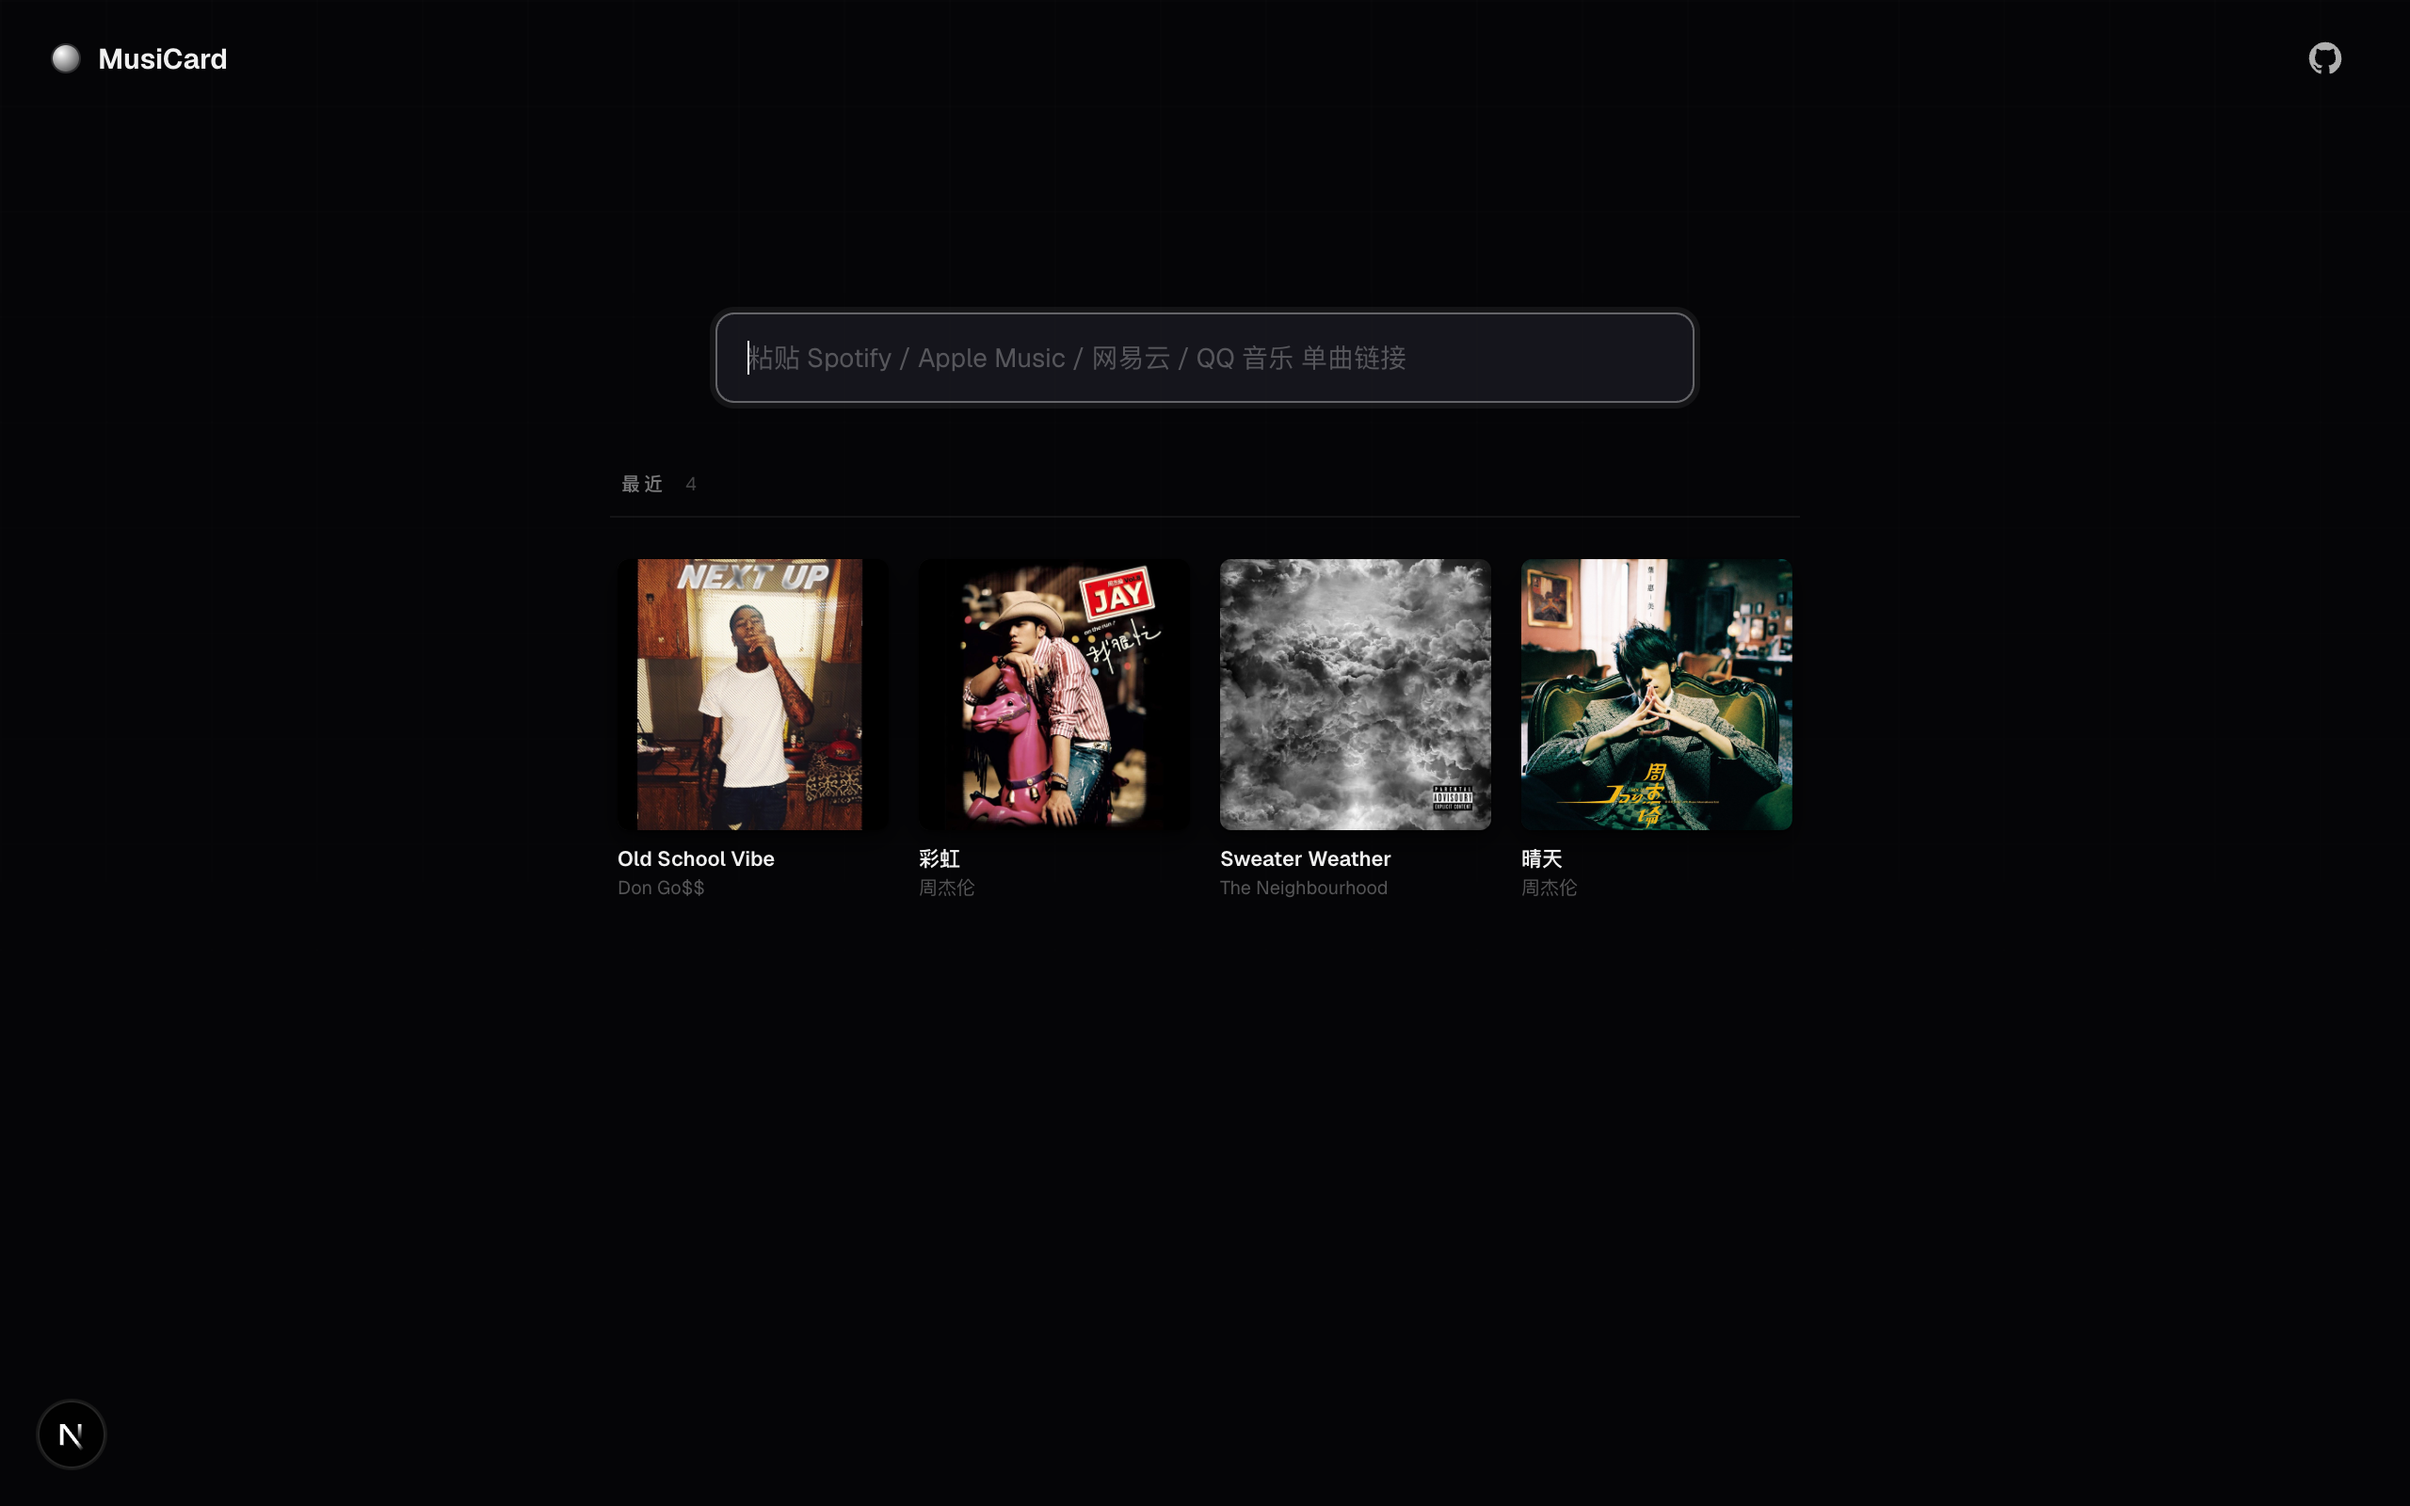
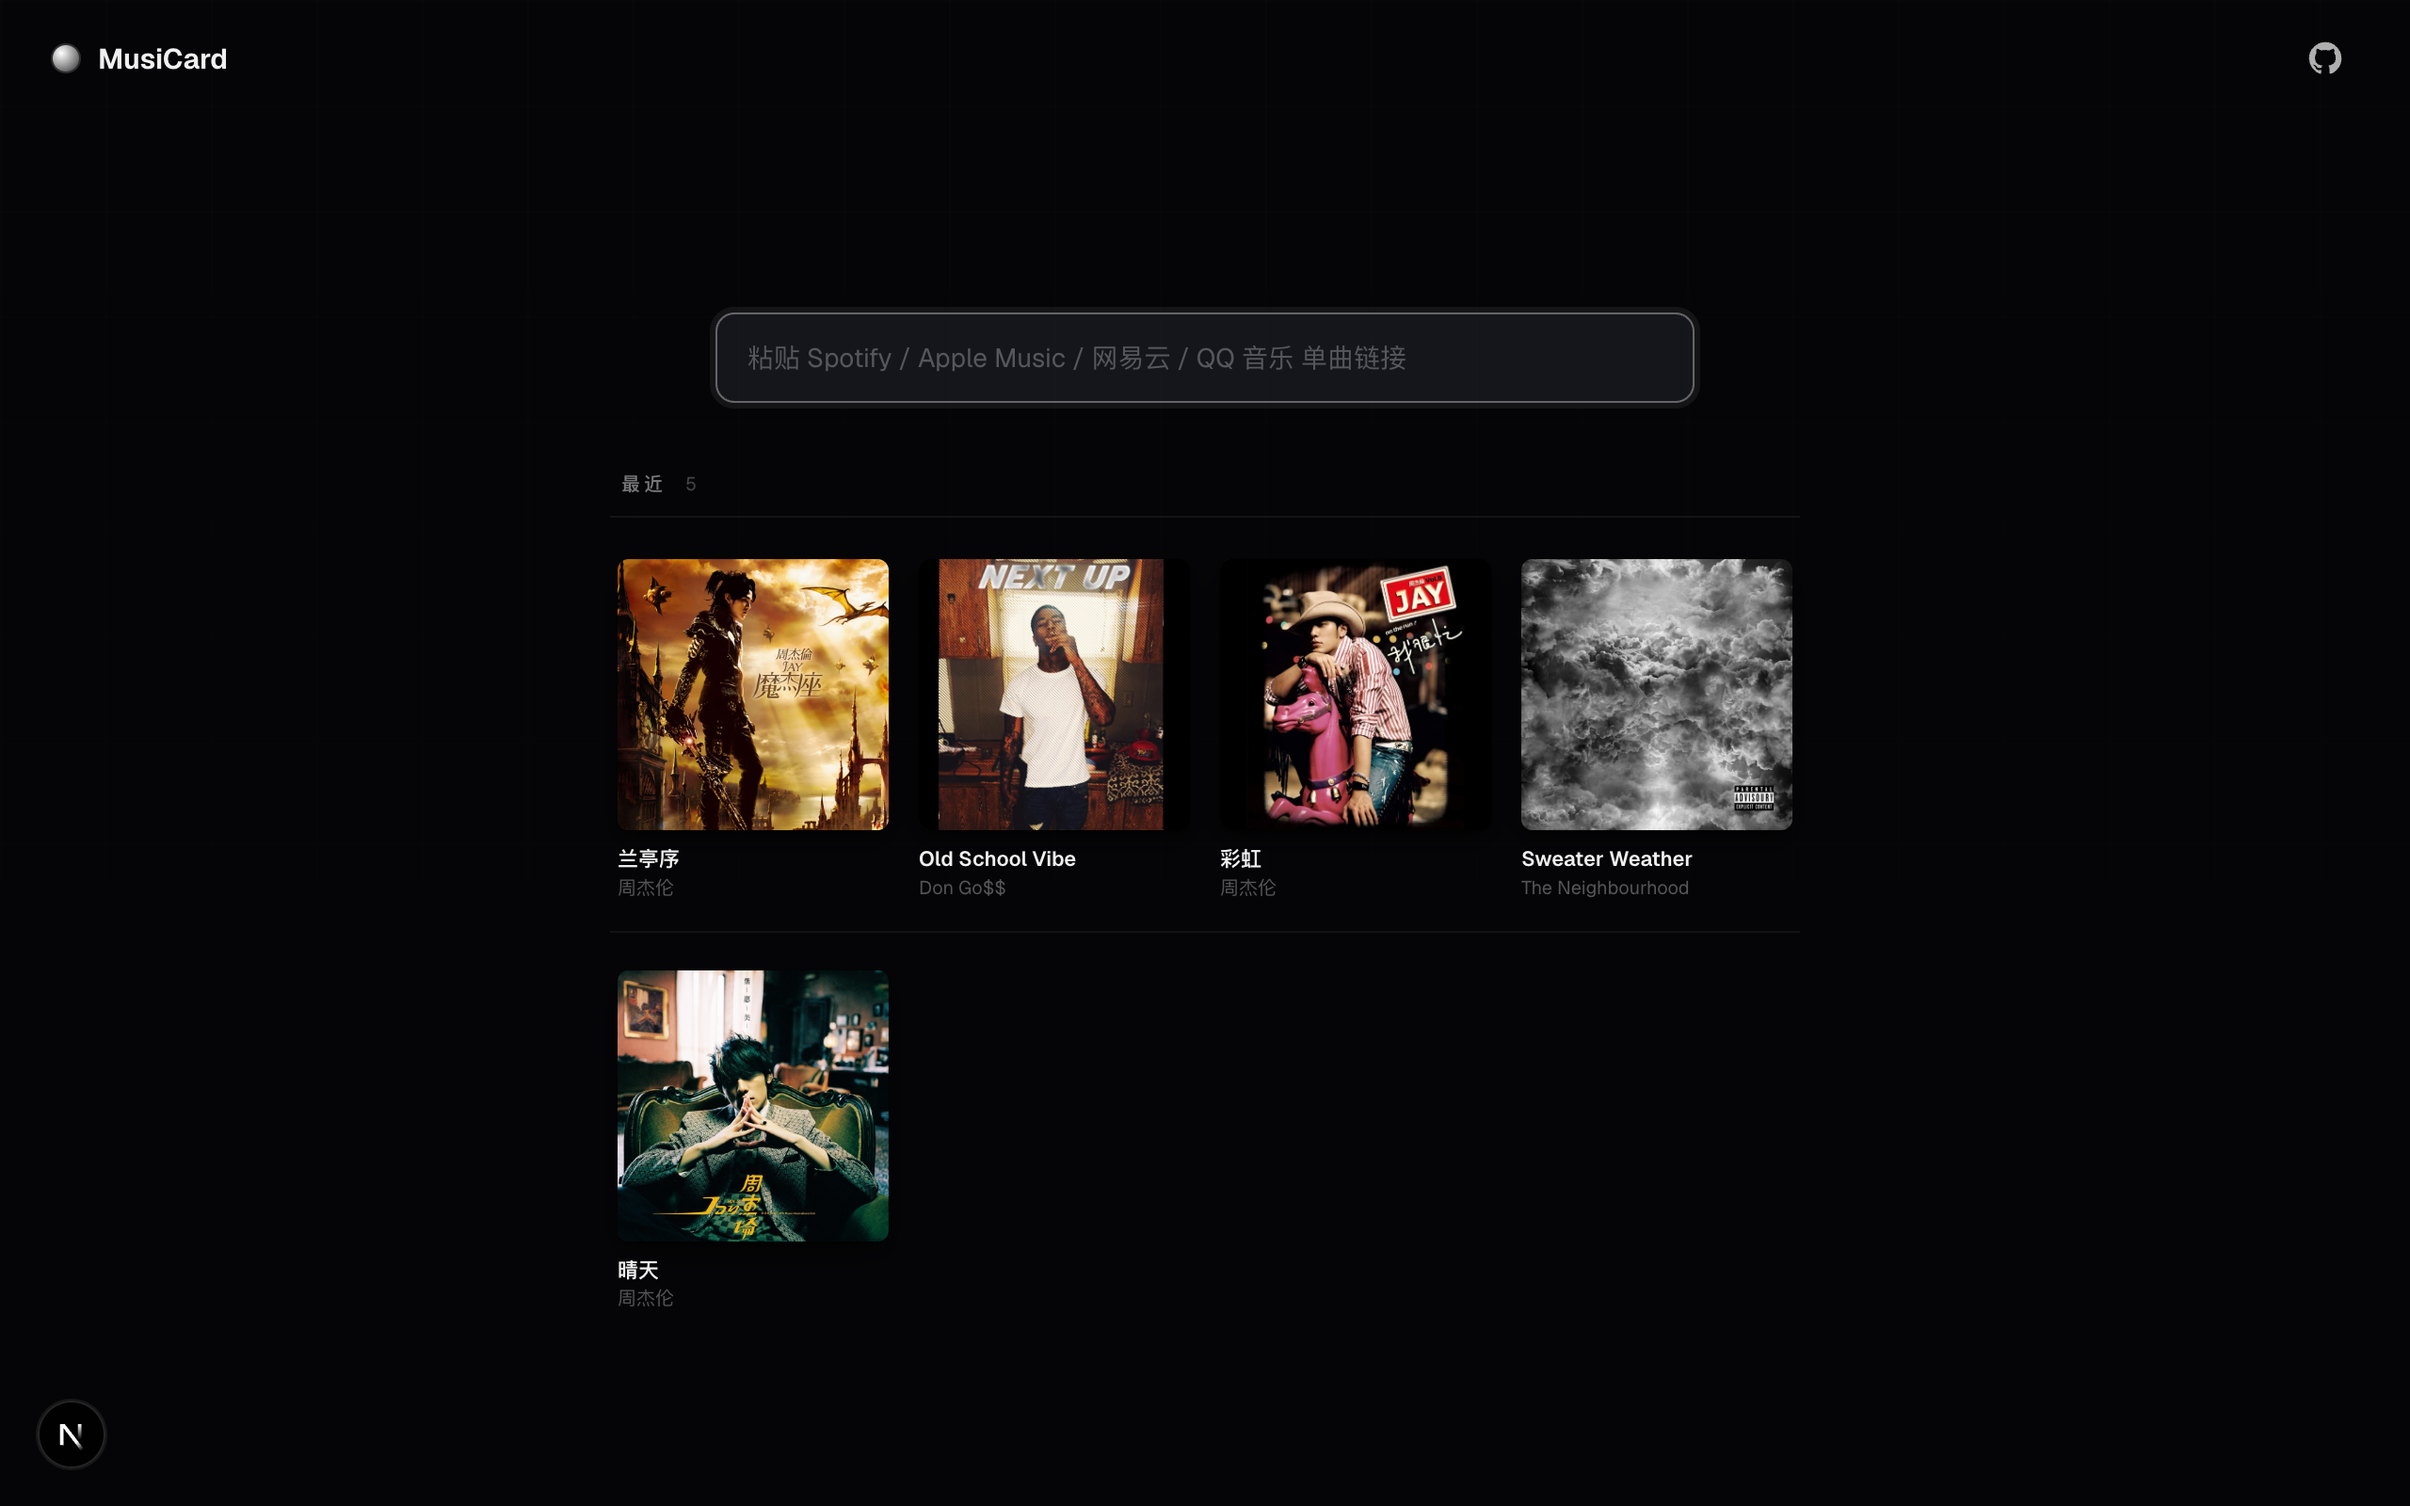
docs(readme): refresh hero + screenshots for v4 QQ card
- hero.gif now records a QQ Music URL (晴天 / 周杰伦) so the demo
  showcases the newest platform and the v4 grass-green visual.
- record-hero.mjs pinned to chromium-1208 (matches capture-qq-card)
  so it survives playwright npm bumps.
- 04 (home shelf) and 06 (Song DNA) re-captured with the new history
  that includes 4 platforms.
- README adds a "歌词" section documenting the per-platform lyric
  routing rule (NetEase / QQ only use their own APIs; LRCLIB is for
  Spotify / Apple). Updated 致谢 to credit the QQ lyrics endpoint and
  Wikimedia Commons logos.

Changed region(s): [[0.25, 0.3438, 0.75, 0.5938], [0.25, 0.625, 0.375, 0.8438], [0.25, 0.8438, 0.2812, 0.875]]

diff --git a/README.md b/README.md
@@ -65,13 +65,22 @@ https://y.qq.com/n/ryqq/songDetail/<songmid>
 
 每首歌还会拿到一个可分享的短路径，如 `/qq-0039MnYb0qxYhV` —— 浏览器后退、收藏夹都按预期工作。
 
+## 歌词
+
+每个平台拿歌词的路径不同：
+
+- **网易云 / QQ 音乐** 直接走自家 lyrics API（最权威），miss 就直接交给 AI 兜底，不再绕 LRCLIB
+- **Spotify / Apple Music** 走 [LRCLIB](https://lrclib.net) 时间戳歌词库；miss 后并行的 AI 调用接力
+
+整个 race 跟前端 `useTrackInfo` 共享 AbortController，先来先用，另一边自动取消。
+
 ## 历史 & 专辑合并
 
 <p align="center">
   <img src="docs/media/04-home-with-history.png" width="640" alt="History shelf"/>
 </p>
 
-最近浏览的歌按时间倒序展示在首页。同一张专辑的多首会自动折叠成一张卡（点击展开列表），不管它们来自 Spotify 还是网易云 —— 按 `normalize(艺人) + normalize(专辑名)` 作 key 合并。
+最近浏览的歌按时间倒序展示在首页。同一张专辑的多首会自动折叠成一张卡（点击展开列表），跨平台也算 —— Spotify 上的"七里香"和 QQ 上的"七里香"按 `normalize(艺人) + normalize(专辑名)` 合并成一张。
 
 ## SONG-DNA
 
@@ -79,7 +88,7 @@ https://y.qq.com/n/ryqq/songDetail/<songmid>
   <img src="docs/media/06-song-dna.png" width="640" alt="Song DNA expanded"/>
 </p>
 
-> 顺带的小玩具：点一下让 AI 给你写这首歌的故事 —— 创作背景、典故、MV、奖项，带参考链接。结果会缓存到 DB，下次秒开。
+> 点一下让 AI 给你写这首歌的故事 —— 创作背景、方文山 vs 周杰伦自填词、MV 拍摄花絮、获奖记录，带参考资料链接。流式生成 + 落库缓存，下次秒开。
 
 ## 自己部署
 
@@ -111,10 +120,10 @@ QQ 音乐 / 网易云 / Apple Music 都直接走平台公开接口，**不需要
 ## 致谢
 
 - [Spotify Web API](https://developer.spotify.com/) · [iTunes Lookup](https://itunes.apple.com/lookup)
-- [LRCLIB](https://lrclib.net) 同步歌词
-- 网易云 weapi 反代理协议（社区逆向）
-- QQ 音乐 `c.y.qq.com/v8/fcg-bin/fcg_play_single_song.fcg` 公开端点
-- Apple Music / Spotify / QQ Music / 网易云的官方品牌 logo（商标各自所有）
+- [LRCLIB](https://lrclib.net) 同步歌词（Spotify / Apple Music 走这条线）
+- 网易云 weapi 反代理协议（社区逆向）—— song detail + lyric 一并拿
+- QQ 音乐 `c.y.qq.com` 的 `fcg_play_single_song` + `fcg_query_lyric_new` 公开端点
+- Wikimedia Commons 的 QQ Music 2023 / 网易云 / Apple Music / Spotify 官方 logo SVG（商标各自所有）
 
 ## License
 
